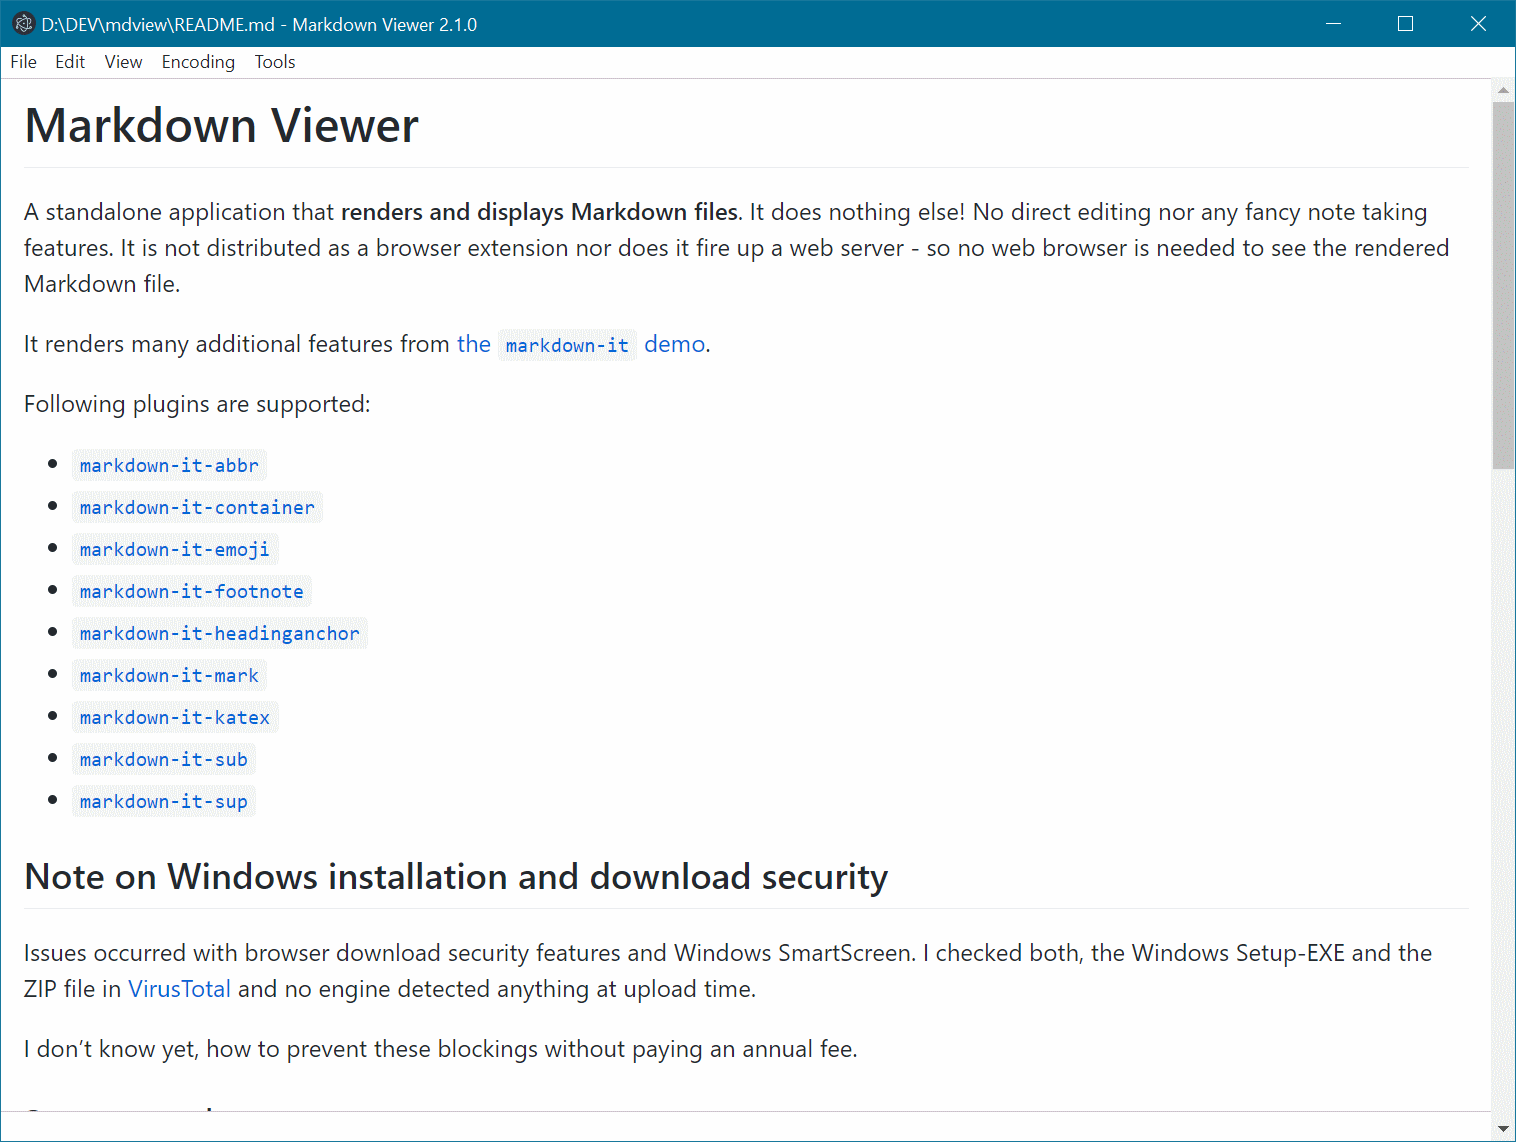
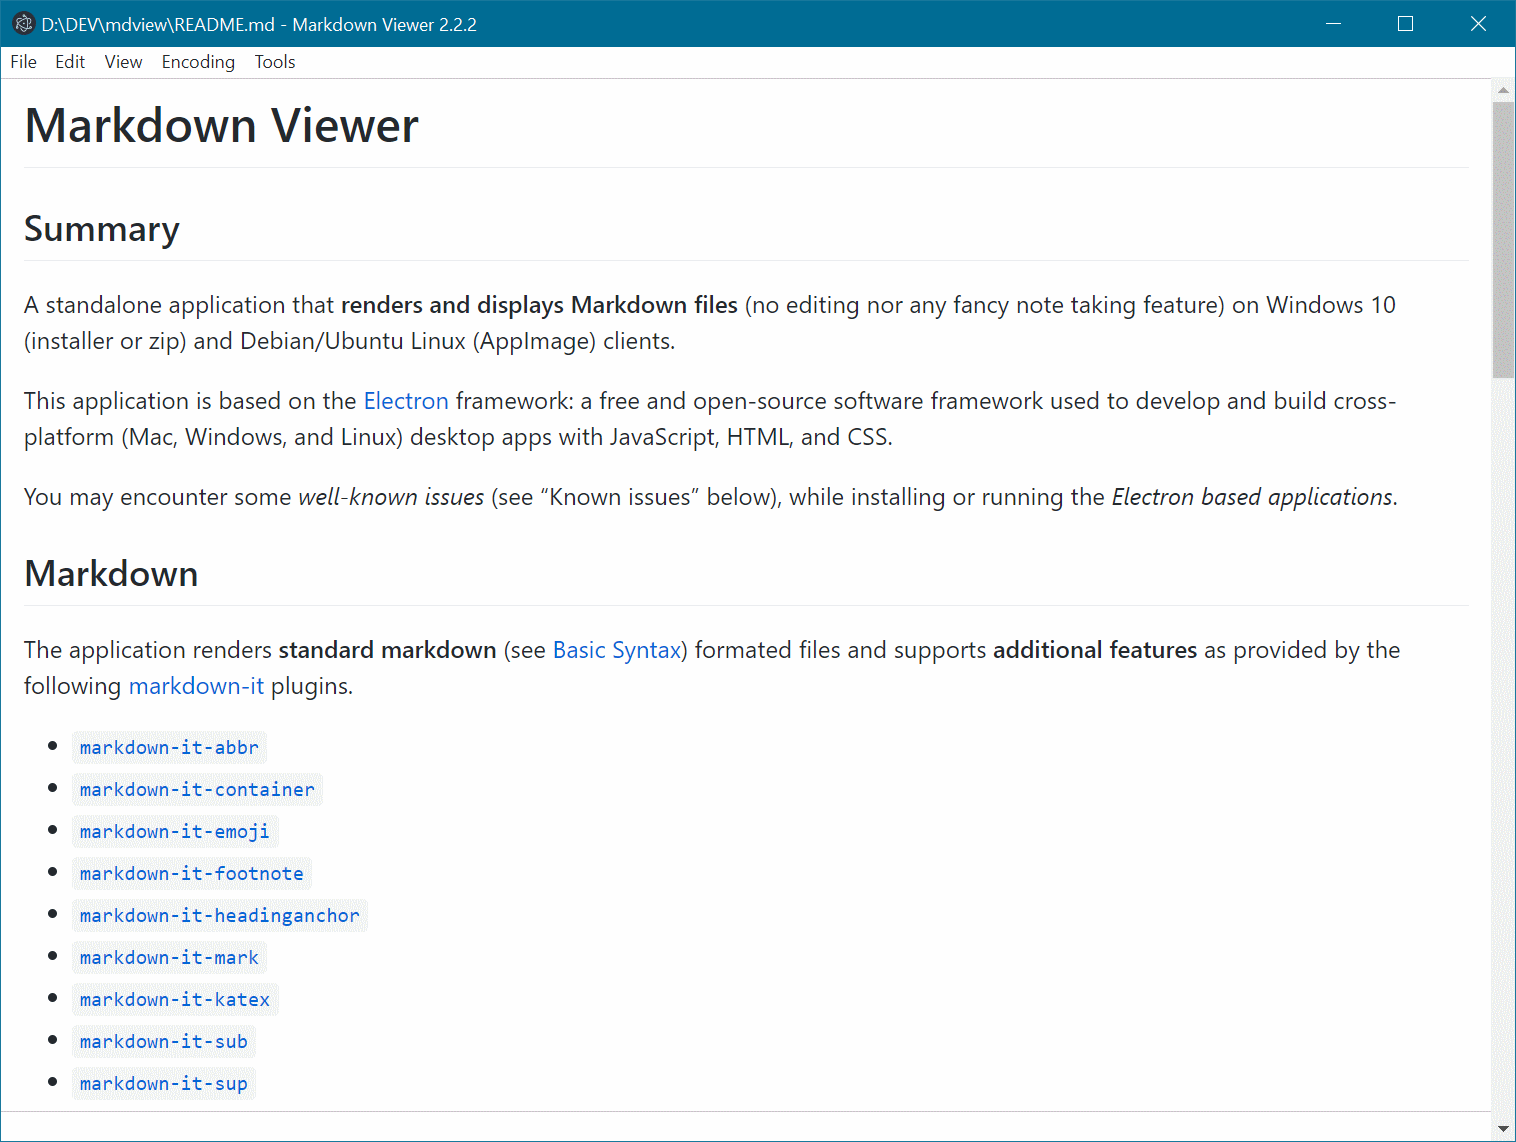
docs: update README, CONTRIBUTING, LICENSE and screenshots files, add commit messages guideline

diff --git a/README.md b/README.md
@@ -1,13 +1,18 @@
 # Markdown Viewer
-
 <!-- markdownlint-disable-next-line MD033-->
-[<img src="doc/screenshot-thumb.png" width="500">](doc/screenshots.md "display the full sized screenshot(s)")
+[<img src="./doc/screenshot-thumb.png" width="500">](./doc/screenshots.md "display the full sized screenshot(s)")
 
-A standalone application that **renders and displays Markdown files**. It does nothing else! No direct editing nor any fancy note taking features. It is not distributed as a browser extension nor does it fire up a web server - so no web browser is needed to see the rendered Markdown file.
+## Summary
 
-It renders many additional features from [the `markdown-it` demo](https://markdown-it.github.io/).
+A standalone application that **renders and displays Markdown files** (no editing nor any fancy note taking feature) on Windows 10 (installer or zip) and Debian/Ubuntu Linux (AppImage) clients.
 
-Following plugins are supported:
+This application is based on the [Electron](https://www.electronjs.org/languages/en-US) framework: a free and open-source software framework used to develop and build cross-platform (Mac, Windows, and Linux) desktop apps with JavaScript, HTML, and CSS.
+
+You may encounter some *well-known issues* (see "Known issues" below), while installing or running the *Electron based applications*.
+
+## Markdown
+
+The application renders **standard markdown** (see [Basic Syntax](https://www.markdownguide.org/basic-syntax/)) formated files and supports **additional features** as provided by the following [markdown-it](https://github.com/markdown-it/markdown-it) plugins.
 
 - [`markdown-it-abbr`](https://github.com/markdown-it/markdown-it-abbr)
 - [`markdown-it-container`](https://github.com/markdown-it/markdown-it-container)
@@ -19,56 +24,82 @@ Following plugins are supported:
 - [`markdown-it-sub`](https://github.com/markdown-it/markdown-it-sub)
 - [`markdown-it-sup`](https://github.com/markdown-it/markdown-it-sup)
 
-## Note on Windows installation and download security
+## Development
 
-Issues occurred with browser download security features and Windows SmartScreen. I checked both, the Windows Setup-EXE and the ZIP file in [VirusTotal](https://www.virustotal.com) and no engine detected anything at upload time.
+The tool is currently developed and tested under Windows 10 (X64).
 
-I don't know yet, how to prevent these blockings without paying an annual fee.
+### Requirements
 
-### Startup speed
+An actual [Node.js](https://nodejs.org/) and NPM version (usually installed together with Node.js) are required to setup a development environment.
 
-The application may have a delay at startup. This delay may be caused by Windows Defender. See [my comment in Electron issue #29868](https://github.com/electron/electron/issues/29868#issuecomment-869049066) and [this StackOverflow question](https://stackoverflow.com/questions/67982430/windows-defender-slowing-down-electron-startup). Other virus scanner may also cause a delay.
+You may also prefer to use **NVM** on windows and on Linux. See:
 
-As a workaround to remove this delay, you can add the path to the `mdview.exe` to the exclusion list of your virus scanner. The default installation path of the setup file are:
+- [Install nvm, node.js and npm on Windows](https://docs.microsoft.com/en-us/windows/dev-environment/javascript/nodejs-on-windows)
+- [Install nvm, node.js and npm on Linux, unix, macOS, and windows WSL](https://github.com/nvm-sh/nvm#about)
 
-- `C:\Program Files\mdview` for system wide installation
-- `%appdata%\..\Local\Programs\mdview` for installation in the user account (non elevated)
+### Source code and project setup
 
-## Developing
+Clone the github repository and install the project dependencies:
 
-The tool is developed and tested only under Windows (7 and newer) 64 Bit yet.
+```shell
+git clone https://github.com/khatastroffik/mdview.git
+cd mdview
+npm install
+```
 
-[Node.js](https://nodejs.org/en/) including the NPM package manager is needed. If your Node.js version is too old, the unit tests and some other scripts may fail because of syntax errors. On a Linux machine you can [use NVM](https://www.freecodecamp.org/news/how-to-install-node-js-on-ubuntu-and-update-npm-to-the-latest-version/) to install the latest LTS version.
+To **start** an instance of the **application**, type `npm start`.
 
-After cloning the Git repository, type `npm install`. NPM may put some warnings while installing the packages.
+To **generate** the different application **packages/binaries**, type `npm run dist`. This will generate the artifacts (installer, AppImage or compressed archive) depending on your Operating System. MacOS binaries cannot be generated at the present time due to builder settings/properties related issues. Pull requests are welcome!
 
-To start an instance while development, type `npm start`.
-
-Binaries can be built by typing `npm run dist`. Under Windows, a ZIP package and a Setup.exe will be built. Under Linux, an AppImage file will be generated - though it is not tested by the author yet. MacOS is not tested yet and there are properly some settings missing to build the proper packages. Pull requests are welcome!
-
-The icon is made with help of [Inkscape](https://inkscape.org/en/) and [ImageMagick](https://www.imagemagick.org). While the application icon does not look too bad, a proper icon for Markdown *documents* is missing yet.
-
-Note: you may encounter some issue when trying to build the electron distribution i.e. the build may (partially) fail.
-A possible fix is described here [not able to build installer/uninstaller (ERR_ELECTRON_BUILDER_CANNOT_EXECUTE)](doc/development-build-installer-issue.md)
+To **re-generate** the **icons** under Windows, use the script `generate-icons.cmd` provided in the `icon`  folder. This script rely on [ImageMagick](https://www.imagemagick.org), which thus needs to be installed.
 
 ### Debugging
 
-The main process can be debugged with [Visual Studio Code](https://code.visualstudio.com/). A `launch.json` is in the repository.
+The main process can be debugged with [Visual Studio Code](https://code.visualstudio.com/). A `launch.json` is provided in the `.vscode` folder within this repository.
 
-The renderer process (`index.html` and `index.js`) must be debugged with help of the Electron development tools by calling in the main menu "Tools" -> "Developer tools" or by pressing the F10 key.
+The renderer process (implemented in `index.html` and `index.js`) must be debugged with help of the Electron development tools by calling in the main menu &#128514; "Tools" 🡒 "Developer tools" or by pressing the \[F10\] key.
 
-### Note for Windows
+### Contribution
 
-See [section Startup speed](#startup-speed) above. If you observe a big delay at application startup, you should add the  development path of the application to your virus scanner exclusion list. This workaround may also help with other Electron applications.
+Please see the [Contributing](./CONTRIBUTING.md) guideline.
+
+## Known issues
+
+The following "potential" issues are well-known:
+
+### Windows installation and download security
+
+An issue may occur due to some *browser download security* features or *Windows SmartScreen* technology. Anyhow, the provided package should be safe, though prefer to check them using an antivirus scanner like [VirusTotal](https://www.virustotal.com).
+
+### Startup speed
+
+The application may have a delay at startup. This delay may be caused by Windows Defender.This may be due to your virus scanner e.g. Windows Defender.
+
+### Build error *ERR_ELECTRON_BUILDER_CANNOT_EXECUTE* (development)
+
+You may encounter some issue when trying to build the electron distribution (binaries) i.e. the build may (partially) fail.
+
+A possible fix is described here [not able to build installer/uninstaller (ERR_ELECTRON_BUILDER_CANNOT_EXECUTE)](./doc/development-build-installer-issue.md)
+
+## Credits
+
+The original application has been created by [Christian Dreier](https://github.com/c3er): **many thanks for your inspiration!**
+
+This application is based on version 2.0.0 of the above mentioned application. See the repository containing the original code of this application on [GitHub](https://github.com/c3er/mdview).
 
 ## Copyright and License
 
-This tool is made by Christian Dreier. If you find a copy somewhere, you find the original at [GitHub](https://github.com/c3er/mdview).
+This application is provided under the [**MIT** license](./LICENSE).
 
-You can use and copy this tool under the conditions of the MIT license.
+A [K11K](./K11K.md) production.
 
-## Todo
-
-- Remember position of last opened window
-  - Additional windows shall not open at the same place as the last window
-- Recognize the character encoding to display special characters automatically
+```text
+╭━┳━╭━╭━╮╮
+┃┈┈┈┣▅╋▅┫
+┃┈┃┈╰━╰━━━━━━╮             "K11K"
+╰┳╯┈┈┈┈┈┈┈┈┈◢▉◣    A very pragmatic dog
+ ┃┈┈┈┈┈┈┈┈┈┈▉▉▉   
+ ┃┈┈┈┈┈┈┈┈┈┈◥▉◤
+ ┃┈┈┈┈╭━┳━━━━╯
+ ┣━━━━━━┫
+```

diff --git a/doc/commit-messages-guideline.md b/doc/commit-messages-guideline.md
@@ -1,0 +1,109 @@
+# Commit Messages Guideline
+
+back to [README][mainpage] - back to the [Contributing Guideline](../CONTRIBUTING.md)
+
+
+## Commit Message Format
+
+Each commit message consists of a **header**, a **body** and a **footer**.  The header has a special
+format that includes a **type**, a **scope** and a **subject**:
+
+```console
+<type>(<scope>): <subject>
+<BLANK LINE>
+<body>
+<BLANK LINE>
+<footer>
+```
+
+The **header** is mandatory and the **scope** of the header is optional.
+
+Any line of the commit message cannot be longer 100 characters! This allows the message to be easier
+to read on GitHub as well as in various git tools.
+
+The footer should contain a [closing reference to an issue](https://help.github.com/articles/closing-issues-via-commit-messages/) if any.
+
+Samples: (even more [samples](https://github.com/angular/angular/commits/master))
+
+```console
+docs(changelog): update changelog to beta.5
+```
+
+```console
+fix(release): need to depend on latest rxjs and zone.js
+
+The version in our package.json gets copied to the one we publish, and users need the latest of these.
+```
+
+## Revert
+
+If the commit reverts a previous commit, it should begin with `revert: `, followed by the header of the reverted commit. In the body it should say: `This reverts commit <hash>.`, where the hash is the SHA of the commit being reverted.
+
+## Type
+
+Must be one of the following:
+
+* **chore**: Modification of the application (infra-)structure or core like updating grunt tasks, updating the Docker configuration, adding a new project etc. (no production code change, not for new feature modules)
+* **build**: Changes that affect the build system or external dependencies (example scopes: gulp, broccoli, npm)
+* **ci**: Changes to the CI configuration files and scripts (example scopes: Circle, BrowserStack, SauceLabs)
+* **docs**: Documentation only changes
+* **feat**: A new feature for the user (not for the build scripts etc.)
+* **improve**: improve a current implementation without adding a new feature or fixing a bug
+* **fix**: A bug fix for a user feature (not for build scripts etc.)
+* **perf**: A code change that improves performance
+* **refactor**: A code change that neither fixes a bug nor adds a feature
+* **style**: Changes that do not affect the meaning of the code (white-space, formatting, missing semi-colons, etc)
+* **test**: Adding missing tests or correcting existing tests
+
+## Scope
+
+The scope could be the name of an application module (e.g. send mail, print barcode, encryption), the name of an application project, library etc. (e.g. router, feedback) etc.
+
+## Subject
+
+The subject contains a succinct description of the change:
+
+* use the imperative, present tense: "change" not "changed" nor "changes"
+* don't capitalize the first letter
+* no dot (.) at the end
+
+## Body
+
+Just as in the **subject**, use the imperative, present tense: "change" not "changed" nor "changes".
+The body should include the motivation for the change and contrast this with previous behavior.
+
+## Footer
+
+The footer should contain any information about **Breaking Changes** and is also the place to
+reference GitHub issues that this commit **Closes**.
+
+**Breaking Changes** should start with the word `BREAKING CHANGE:` with a space or two newlines. The rest of the commit message is then used for this.
+
+## Impact of the commit types on the versioning
+
+By convention (see ref. to *Semantic Versioning 2.0.0*), the following types and tags should lead to according version changes:
+
+* `fix` -> this correlates with **PATCH** in semantic versioning
+
+* `feat` -> this correlates with **MINOR** in semantic versioning
+
+* `BREAKING CHANGE` -> this correlates with **MAJOR** in semantic versioning
+
+* `improve` -> this correlates with **PATCH** in semantic versioning
+
+## Further reading
+
+Similar guidlines and other references can be found in the following:
+
+* [Git Commit Message Conventions][commit-message-format]
+* [Contributing to Angular][angular-contributing-commit]
+* [Karma - Git commit messages][karma-git-commit]
+* [Semantic Versioning 2.0.0][semantic-versioning]
+* [Conventional Commits Specification][conventional-commits]
+
+[commit-message-format]: https://docs.google.com/document/d/1QrDFcIiPjSLDn3EL15IJygNPiHORgU1_OOAqWjiDU5Y/edit#
+[angular-contributing-commit]: https://github.com/angular/angular/blob/master/CONTRIBUTING.md#commit
+[karma-git-commit]: http://karma-runner.github.io/3.0/dev/git-commit-msg.html
+[semantic-versioning]: https://semver.org/spec/v2.0.0.html
+[conventional-commits]: https://www.conventionalcommits.org
+[mainpage]: ../README.md

diff --git a/CONTRIBUTING.md b/CONTRIBUTING.md
@@ -1,43 +1,22 @@
 # Contributing to Markdown Viewer
 
-Notes:
+[back to README](./README.md)
 
-- Markdown Viewer is referred to as "the tool" below.
-- The project maintainer is referred to as "the author" below
+## Bugs or feature requests
 
-## Bugs and feature requests
+Please [review existing issue(s)](https://github.com/khatastroffik/mdview/issues) first.
 
-If the tool does not behave as expected in any way or you miss some feature, you may want to [report an issue](https://github.com/c3er/mdview/issues/new/choose). When reporting ensure following points:
-
-- Do you have [the latest version](https://github.com/c3er/mdview/releases/latest)?
-- Is the issue [already reported](https://github.com/c3er/mdview/issues?q=)?
-    - If an issue exists and is still open, you may give it a thumbs up reaction as signal to the tool author.
-    - A closed issue may be closed, because a bug is fixed only seemingly or the author did not consider the reported behavior or missing feature as to be fixed
-        - **Seemingly fixed bug:** feel free to reopen the issue and provide additional information (see below)
-        - **Issues not considered to be fixed:** you may provide some additional arguments, why the author was wrong at not fixing this issue🙂
-- The issue provides all needed information (see below)
-
-### Needed information
-
-For missing features and "strange behavior", the author needs a good description of the expected behavior.
-
-For things like exception messages, application crashes or non working menu points, following information is helpful:
-
-- Exact steps to reproduce the bug
-- Operating system
-    - For Windows, the version should be sufficient, e.g. "20H2". If you are not sure, which exact version you have, press the key combination `Win+R` and type `winver`.
-    - On Linux just all the information about your environment that may be appropriate🙂
+Eventually file a [new issue](https://github.com/khatastroffik/mdview/issues/new/choose), providing some *helpful/meaningful* information  (be smart :wink:).
 
 ## Code contribution
 
-If you like to add some feature or fix an apparent bug, it is recommended to open an issue explaining the change first. This makes it possible to discuss the feature or bug fix first and makes sure that you don't put to much work in the case that the author does not want that particular change to his tool.
+1. Please ensure that:
+    - all automated tests pass by running `npm test`.
+    - the code is formatted properly by running `npm run format`.
+    - the commit messages comply with the [Commit Messages Guideline](./doc/commit-messages-guideline.md)
+    - your changes do not have *any merge conflicts* with the current state of the **develop** branch.
+    - no **tags** have been generated for or will be forwarded to this repository.
 
-Use GitHub's [pull request mechanism](https://github.com/c3er/mdview/compare) to propose your contribution.
+1. Submit your contribution as a [Pull Request](https://github.com/khatastroffik/mdview/compare) to the **develop** branch only!
 
-Please ensure following points:
-
-- All automated tests pass by running `npm test`
-    - If a test fails after a fresh clone/checkout on your machine (i.e. without any changes by you), it is very clearly a bug and should be reported with all needed information about your environment.
-- The code is formatted properly by running `npm run format`
-- Your changes do not have any merge conflicts with the current state of the master branch
-- For your convenience it is recommended that you make your changes not on the master branch but on an extra feature branch
+Note: After the contributing PR has been merged in the **develop** branch, the maintainer of the repo may forward the changes to the **master** repository and generate a new release.

diff --git a/K11K.md b/K11K.md
@@ -1,0 +1,12 @@
+```text
+     _____                       _____    
+  __| __  |__   ____   ____   __|  __ |__ 
+ |  |/ /     | |    | |    | |     \ \|  |
+ |     \     | |    | |    | |     /     |
+ |__|\__\  __| |____| |____| |__  /__/|__|
+    |_____|                     |_____|   
+
+        a khatastroffik production
+```
+
+[back to README](./README.md)

diff --git a/doc/screenshots.md b/doc/screenshots.md
@@ -2,10 +2,10 @@
 
 [back to README](../README.md)
 
-## version 2.1.0
+## *light* theme
 
 ![Screenshot v2.1.0](screenshot-fullsize.png)
 
-## version 1.4.1
+## *dark* theme
 
-![Screenshot v1.4.1](screenshot.png)
+![Screenshot v2.1.0](screenshot-fullsize-dark.png)
